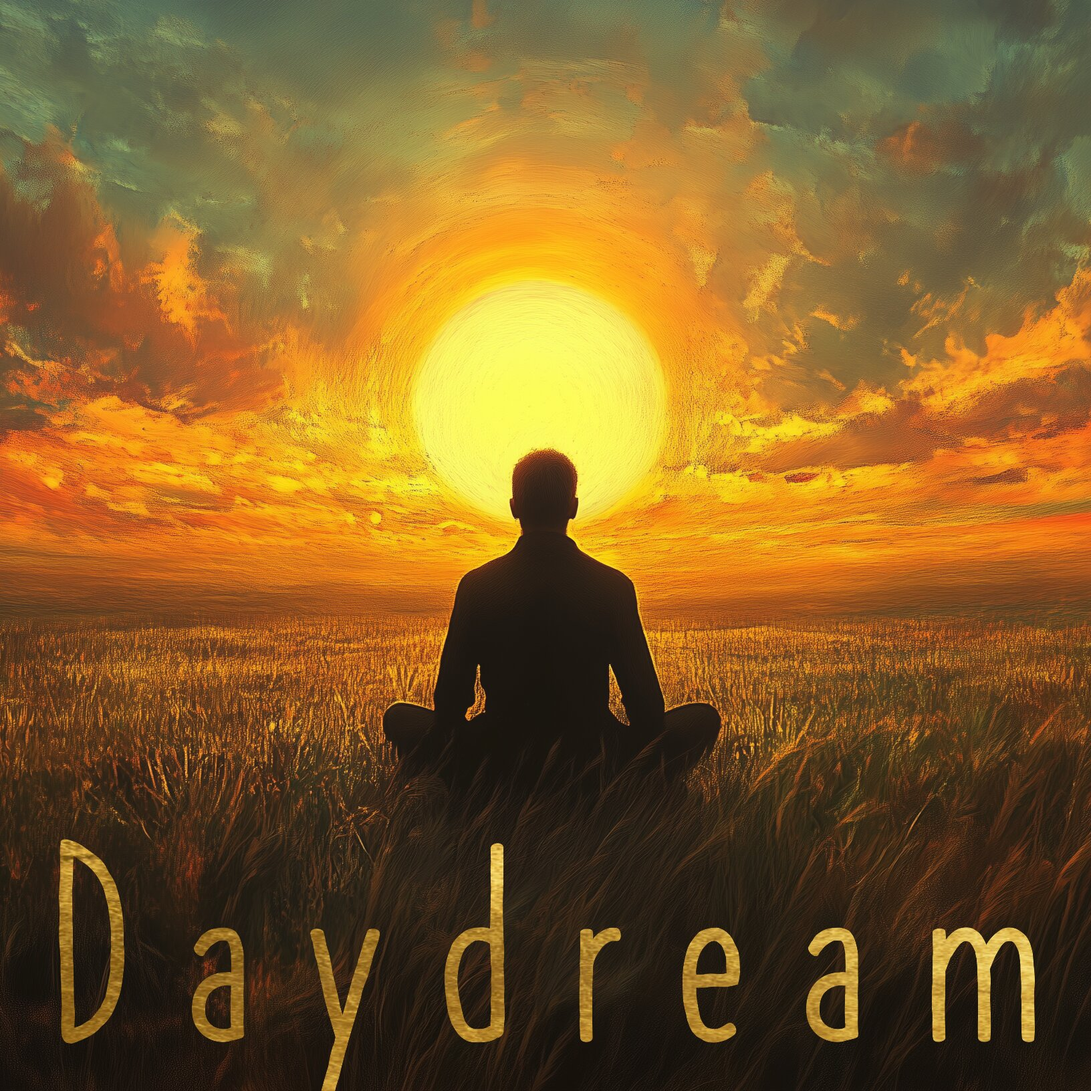
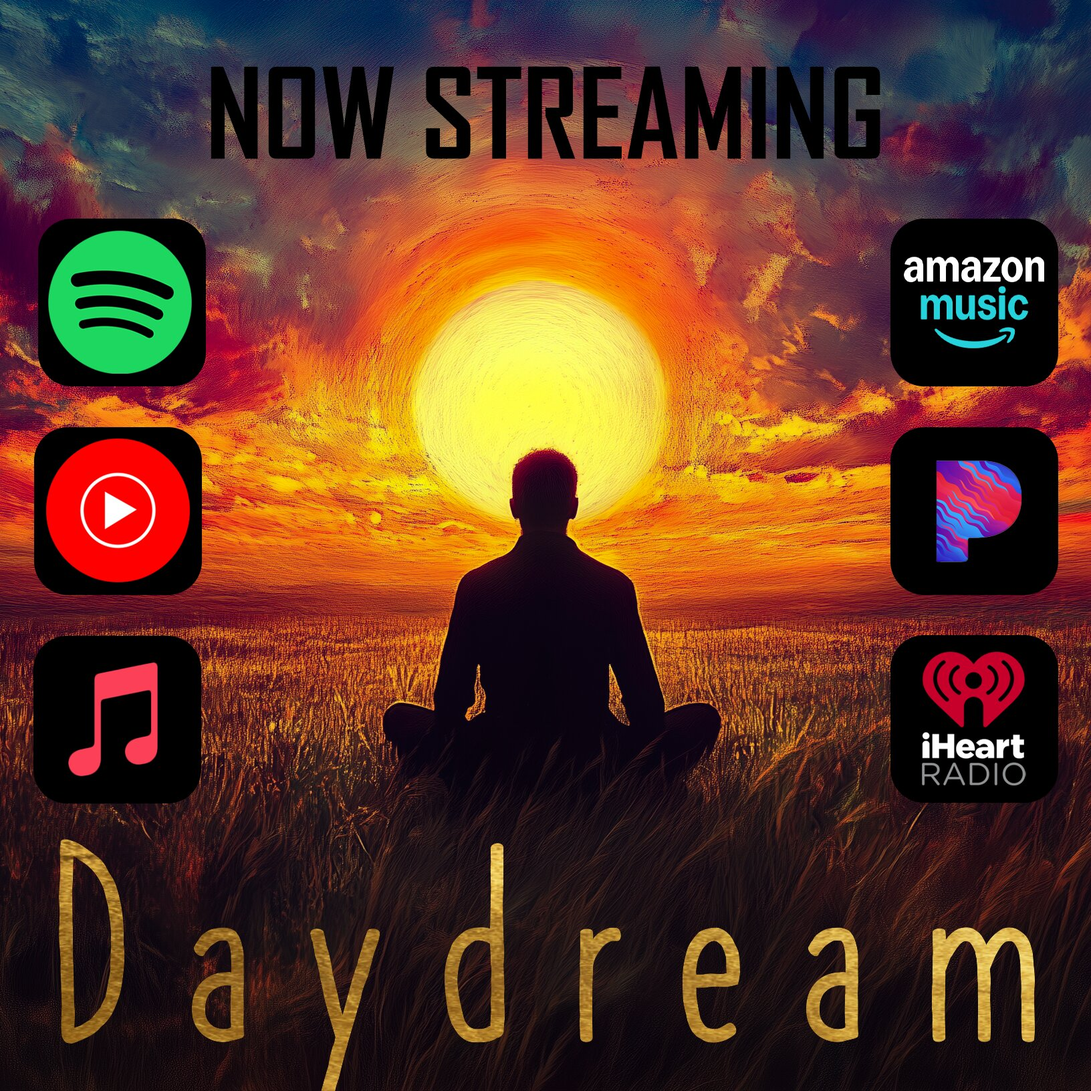
updated release

diff --git a/music.html b/music.html
@@ -19,7 +19,7 @@
   <br>
   <div class="content">
     <h1><u>Music</u></h1>
-    <p><a href="https://distrokid.com/hyperfollow/liefesutliff/daydream-2" target="_blank" class="presaveLink">Pre-save</a> Daydream Album Now!</p>
+    <p><a href="https://distrokid.com/hyperfollow/liefesutliff/daydream-2" target="_blank" class="presaveLink">Listen</a> To The Daydream Album Now!</p>
     <!-- Make sure to update preload image list in Javascript -->
     <div><a href="https://distrokid.com/hyperfollow/liefesutliff/daydream-2" target="_blank"><img src="images/daydreamAlbum.jpg" alt="Daydream Art" class="newReleasePic"></a></div>
     <!-- Make sure to update preload image list in Javascript -->
